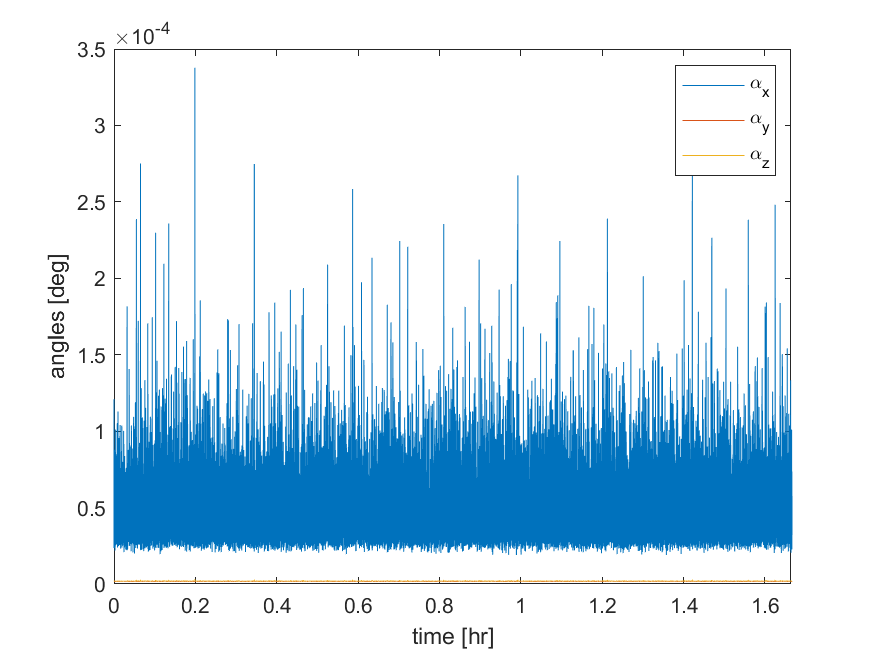
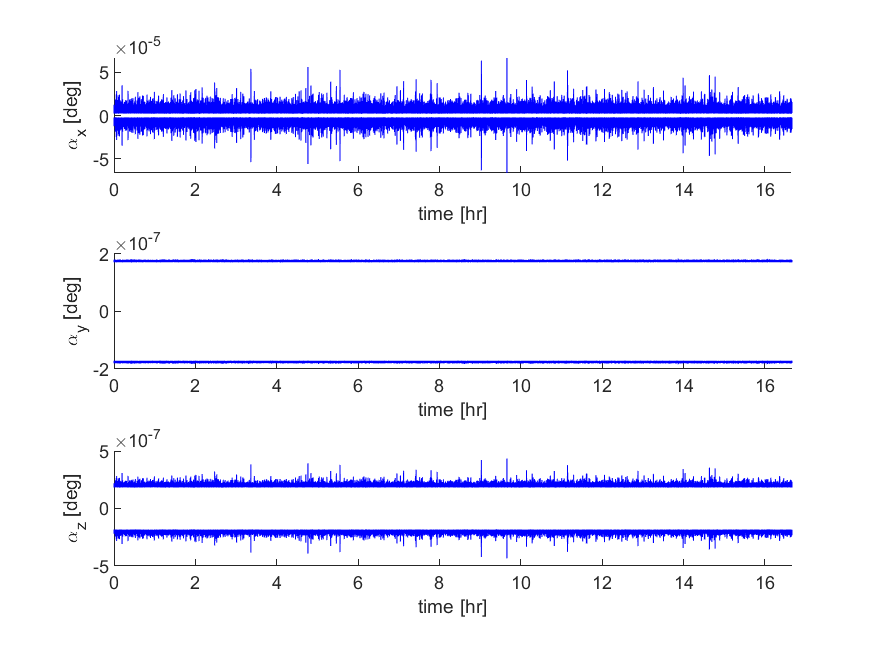
updated plots for ps8

diff --git a/src/ps8.m b/src/ps8.m
@@ -5,11 +5,11 @@ modelVars
 
 %%  Plots
 qVals = squeeze(out.q.data);
-qMeasVals = squeeze(out.qMeasured.data);
+qMeasVals = squeeze(out.qEstimated.data);
 wVals = squeeze(out.w.data);
-wMeasVals = squeeze(out.wMeasured.data);
+wMeasVals = squeeze(out.wEstimated.data);
 timeVals = squeeze(out.q.time);
-timeValsMeas = squeeze(out.qMeasured.time);
+timeValsMeas = squeeze(out.qEstimated.time);
 
 eulerVals = quats2Euler(qVals);
 eulerValsMeas = quats2Euler(qMeasVals);
@@ -62,22 +62,48 @@ for n = 1:length(timeVals)
     eulerError(:,n) = A2e(A_true2err);
     A_error(:,:,n) = A_true2err;
 end
-plot(timeVals/3600, rad2deg(eulerError))
-xlim([0 timeVals(end)/3600])
-xlabel("time [hr]")
-ylabel("euler angle [deg]")
-legend("\phi", "\theta", "\psi")
+eulerAngNames = ["\phi", "\theta", "\psi"];
+for n = 1:3
+    subplot(3, 1, n)
+    plot(timeVals/3600, rad2deg(eulerError(n,:)))
+    xlim([0 timeVals(end)/3600])
+    xlabel("time [hr]")
+    ylabel(eulerAngNames(n) + " [deg]")
+end
 saveAsBool(gcf,'Images/ps8_problem7_error.png', savePlots)
 
-%%
 figure()
 covError = [squeeze(out.Pkplus.Data(1,1,:)), ...
                   squeeze(out.Pkplus.Data(2,2,:)), ...
                   squeeze(out.Pkplus.Data(3,3,:))]';
-plot(timeVals/3600, rad2deg(covError))
-xlim([0 timeVals(end)/3600])
-xlabel("time [hr]")
-ylabel("angles [deg]")
-legend("\alpha_x", "\alpha_y", "\alpha_z")
+angleNames = ["\alpha_x", "\alpha_y", "\alpha_z"];
+for n = 1:3
+    subplot(3, 1, n)
+    hold on
+    plot(timeVals/3600, 1.96.*rad2deg(covError(n,:)), 'b')
+    plot(timeVals/3600, -1.96.*rad2deg(covError(n,:)), 'b')
+    xlim([0 timeVals(end)/3600])
+    xlabel("time [hr]")
+    ylabel(angleNames(n) + " [deg]")
+    hold off
+end
 saveAsBool(gcf,'Images/ps8_problem7_cov.png', savePlots)
 
+figure()
+covError = [squeeze(out.Pkplus.Data(1,1,:)), ...
+                  squeeze(out.Pkplus.Data(2,2,:)), ...
+                  squeeze(out.Pkplus.Data(3,3,:))]';
+angleNames = ["\alpha_x", "\alpha_y", "\alpha_z"];
+alphaError = squeeze([A_error(2,3,:), A_error(3,1,:), A_error(1,2,:)]);
+for n = 1:3
+    subplot(3, 1, n)
+    hold on
+    plot(timeVals/3600, rad2deg(alphaError(n,:)), 'r')
+    plot(timeVals/3600, 1.96.*rad2deg(covError(n,:)), 'b')
+    plot(timeVals/3600, -1.96.*rad2deg(covError(n,:)), 'b')
+    xlim([0 timeVals(end)/3600])
+    xlabel("time [hr]")
+    ylabel(angleNames(n) + " [deg]")
+    hold off
+end
+saveAsBool(gcf,'Images/ps8_problem7_covComp.png', savePlots)
